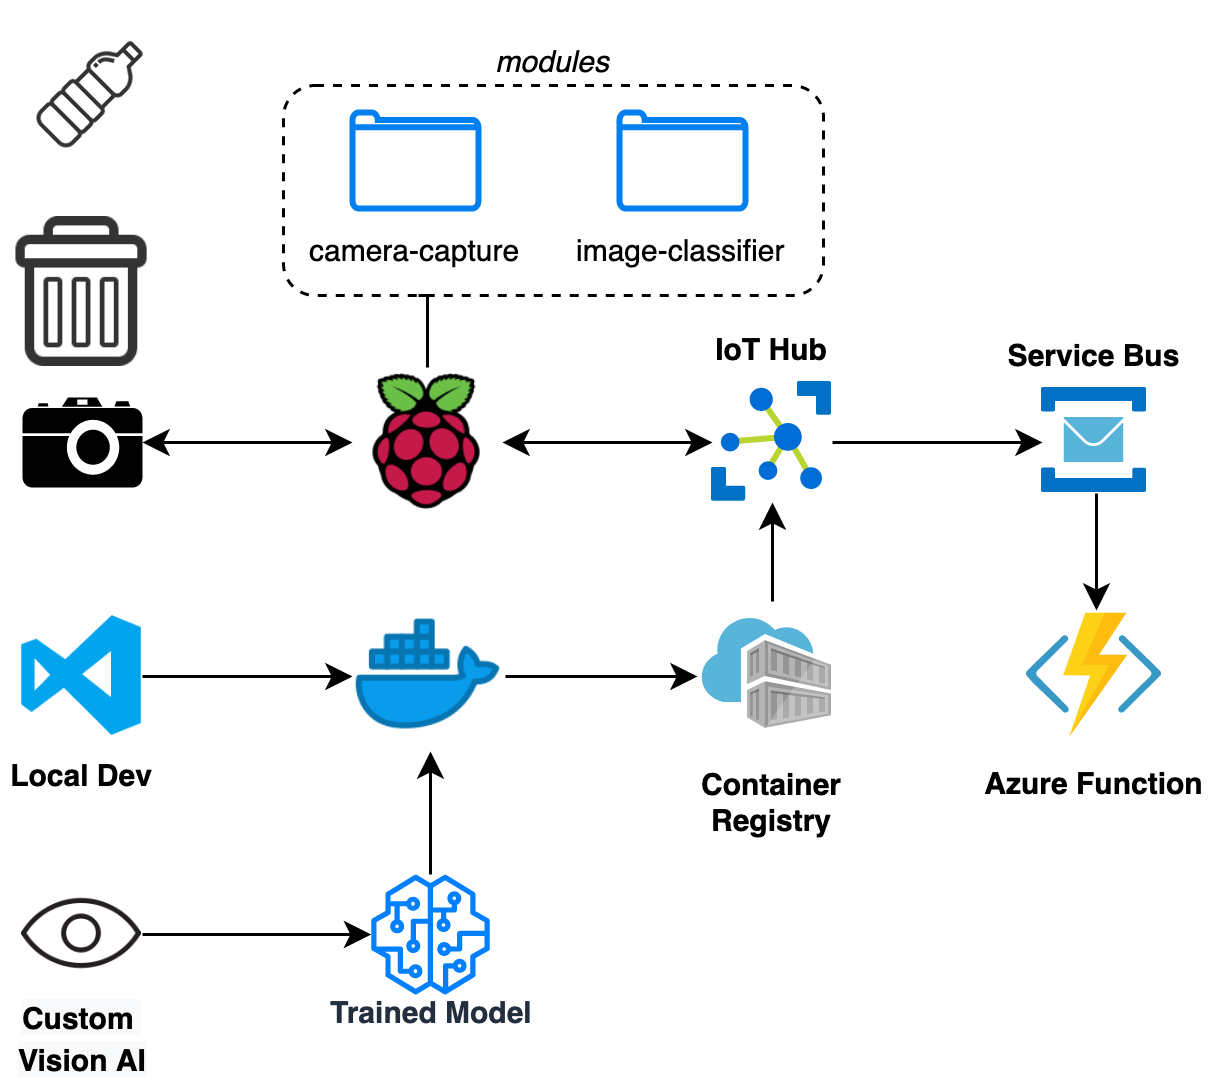
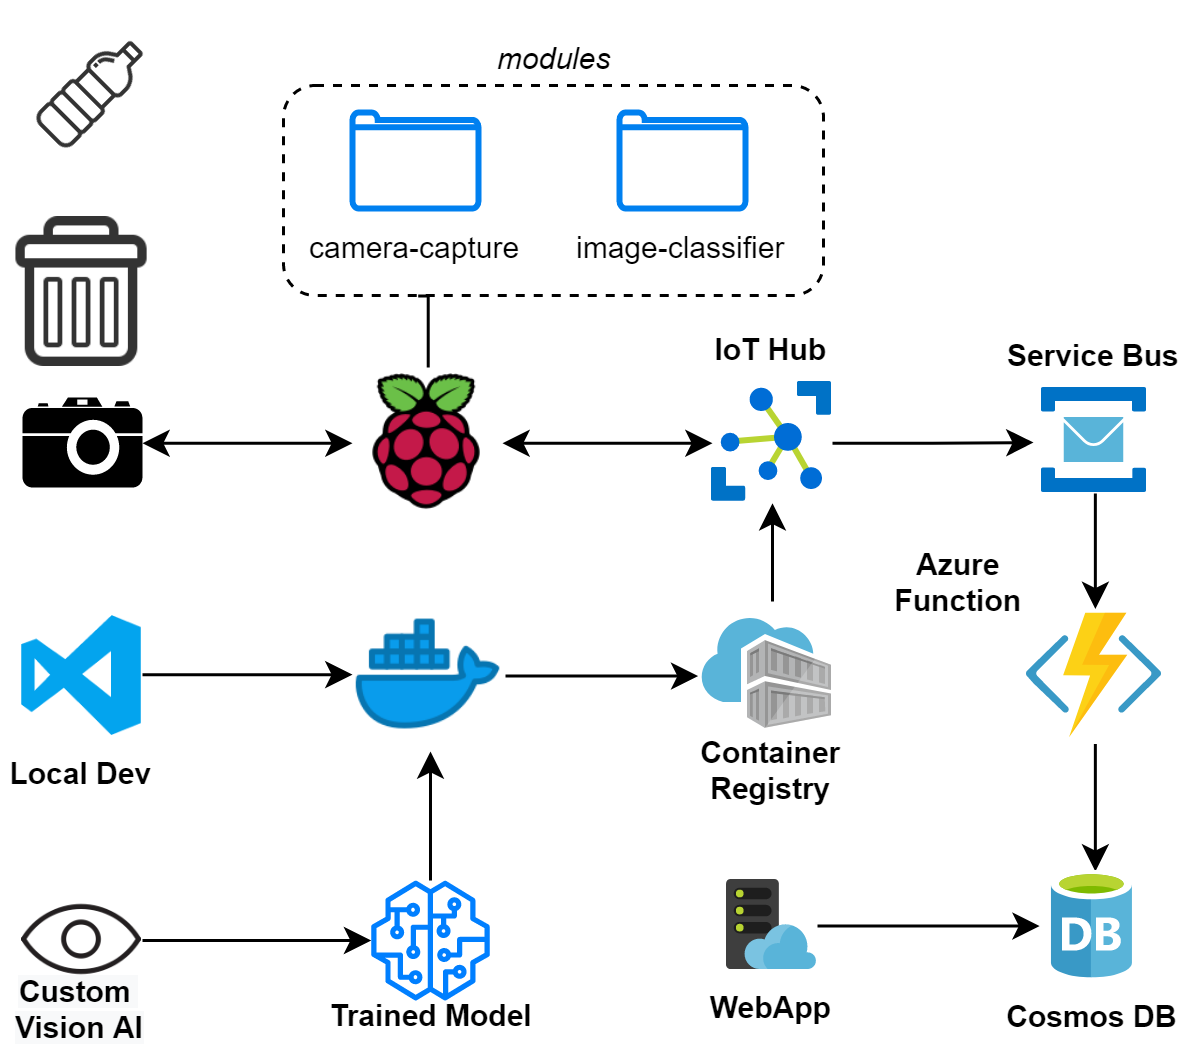
added webapp and cosmodb setup

diff --git a/instructions/13_queue_processing_revisited.md b/instructions/13_queue_processing_revisited.md
@@ -1,0 +1,64 @@
+# Queue Processing Revisited
+
+In this section we re-visit the Queue processing Azure Function and integrate CosmoDB
+
+## Code
+
+Update the [functions/queue-processor/ServiceBusQueueTrigger/__init__.py](../functions/queue-processor/ServiceBusQueueTrigger/__init__.py) file with the following code
+
+```python
+import azure.functions as func
+import azure.cosmos.cosmos_client as cosmos_client
+import logging
+import json
+import uuid
+
+config = {
+    'ENDPOINT': 'https://trashe.documents.azure.com',
+    'PRIMARYKEY': 'XXXXXXXXXXXXXXXXXXXXXXXXXXXXXXXXXXXXXXXXXXXXXXXXXXXXXXXXXXXXX',
+    'DATABASE': 'TrasheList',
+    'CONTAINER': 'Items'
+}
+
+# Initialize the Cosmos client
+client = cosmos_client.CosmosClient(url_connection=config['ENDPOINT'], auth={
+                                    'masterKey': config['PRIMARYKEY']})
+
+# Get reference to DB
+database_link = 'dbs/' + config['DATABASE']
+db = client.ReadDatabase(database_link)
+
+# Get reference tocontainer
+container_link = database_link + '/colls/{0}'.format(config['CONTAINER'])
+container = client.ReadContainer(container_link)
+
+def main(msg: func.ServiceBusMessage):
+    result = msg.get_body().decode('utf-8')
+    results = json.loads(result)
+    item_payload = {
+        'id': str(uuid.uuid1()),
+        'timestamp': results['created'],
+        'prediction': results['predictions']['tagName'],
+        'probability': results['predictions']['probability']
+    }
+    # Only post if higher then 50%
+    if results['predictions']['probability'] > 0.5:
+        # Create and add some items to the container
+        item = client.CreateItem(container['_self'], item_payload)
+```
+
+You can get the `'PRIMARYKEY'` variable from the Connection String query under `Primary SQL Connection String`
+
+```bash
+# Get the connection string for API account
+az cosmosdb list-connection-strings \
+    --name "trashe" \
+    --resource-group "azure-iot-trashe"
+```
+
+## Deploy
+
+```bash
+cd functions/queue-processor
+func azure functionapp publish trashe-queue-processor --build-native-deps
+```

diff --git a/README.md b/README.md
@@ -31,6 +31,8 @@ Making use of Azure IoT Edge we're able to leverage our trash detection model to
 * [09 - Custom Vision Model](instructions/09_custom_vision_model.md)
 * [10 - Service Bus / Queue Setup](instructions/10_service_bus.md)
 * [11 - Queue Processing w/ Azure Function](instructions/11_queue_process.md)
+* [12 - CosmosDB Webapp](instructions/12_cosmos_db_webapp.md)
+* [13 - Queue Processing Revisited](instructions/13_queue_processing_revisited.md)
 
 ## Attribution
 

diff --git a/instructions/12_cosmos_db_webapp.md b/instructions/12_cosmos_db_webapp.md
@@ -28,7 +28,7 @@ Retrieve the connection string that will be used to connect to CosmosDB
 *NOTE:* The account name was passed in as a parameter in [templates/cosmos-db/parameters.json](../templates/cosmos-db/parameters.json])
 
 ```bash
-# Get the connection string for MongoDB API account
+# Get the connection string for API account
 az cosmosdb list-connection-strings \
     --name "trashe" \
     --resource-group "azure-iot-trashe"

diff --git a/instructions/11_queue_process.md b/instructions/11_queue_process.md
@@ -31,7 +31,7 @@ func new
 
 ### Update Variables
 
-Open [functions/queue-processor/ServiceBusQueueTrigger/function.json](functions/queue-processor/ServiceBusQueueTrigger/function.json) and update the settings with your queue details.
+Open [functions/queue-processor/ServiceBusQueueTrigger/function.json](../functions/queue-processor/ServiceBusQueueTrigger/function.json) and update the settings with your queue details.
 
 ```json
 {
